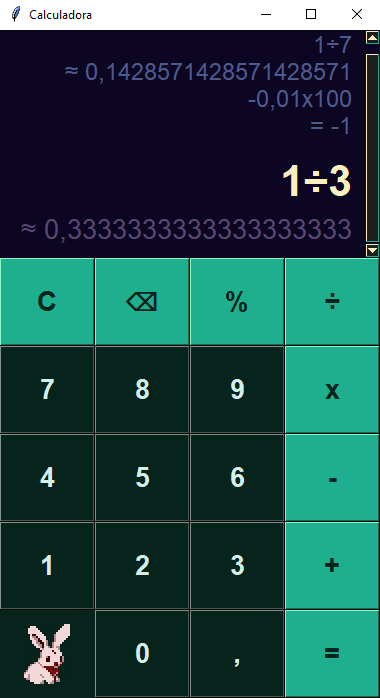
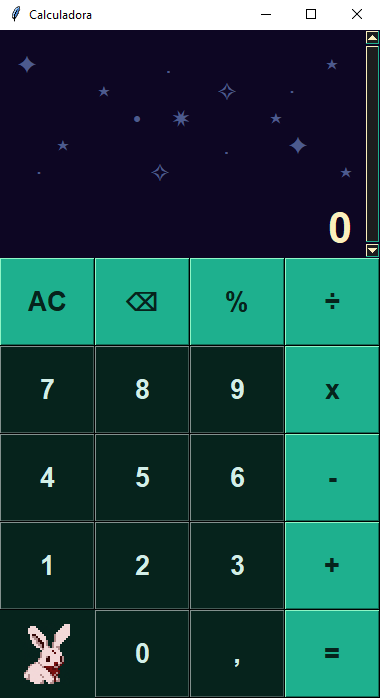
Fim Calculadora
Calculadora personalizada em Python com interface Tkinter. Referência base: vídeo "Como fazer Calculadora em Python | Python na prática" (Simplificado por João, 2021).

Feita em: 22/07-05/08/2025.

diff --git a/Calculadora/README.md b/Calculadora/README.md
@@ -24,10 +24,4 @@ Feita em: 22/07-05/08/2025
 ![Minha calculadora](Apresentação/calculadora_1.png)
 ![Tema alternativo](Apresentação/calculadora_2.png)
 
-*Demonstrações do tema padrão e do tema alternativo, com histórico e resultado parcial ativados*
-
----
-
-## 🛠 Otimização remanescente identificada
-
-- Corrigir bug visual de flutuação dos itens no painel
+*Demonstrações do tema padrão e do tema alternativo*
